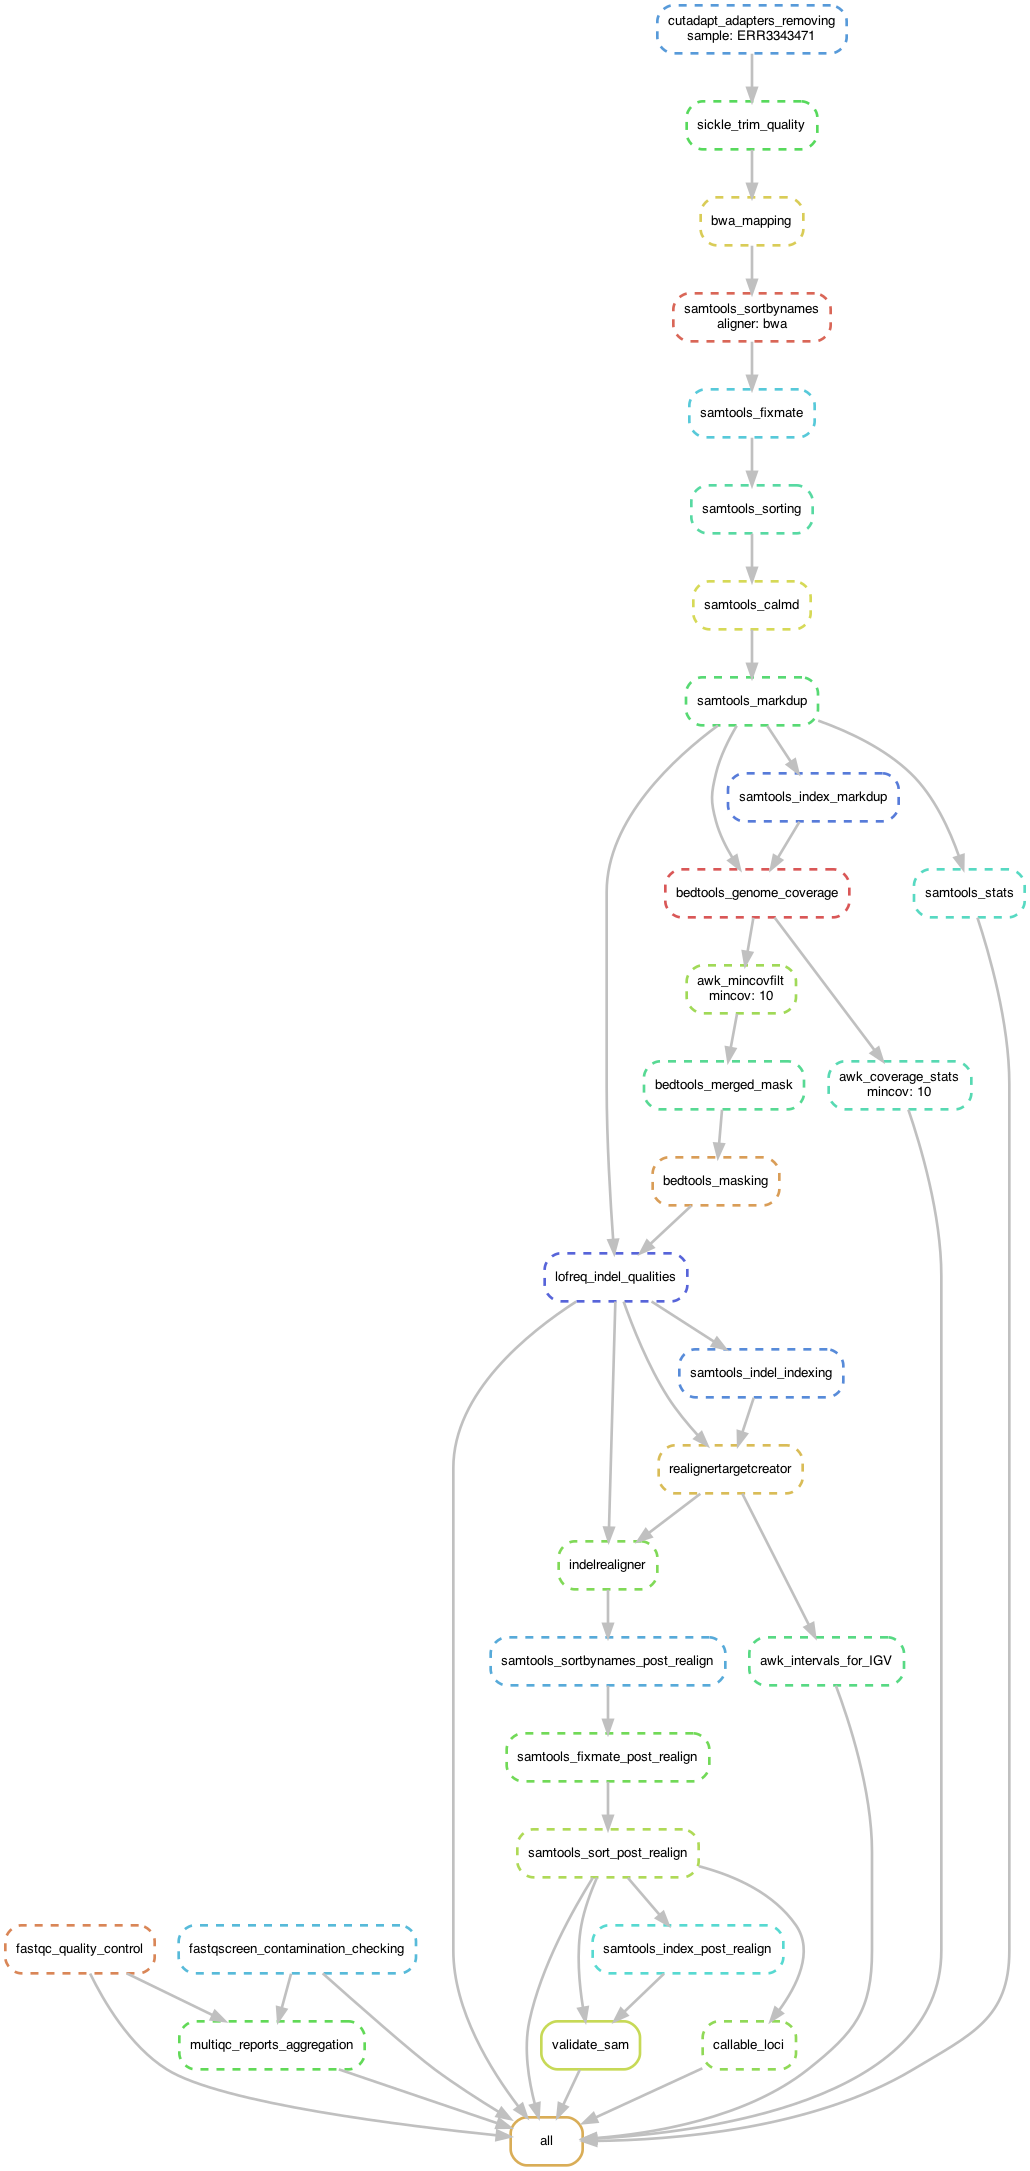
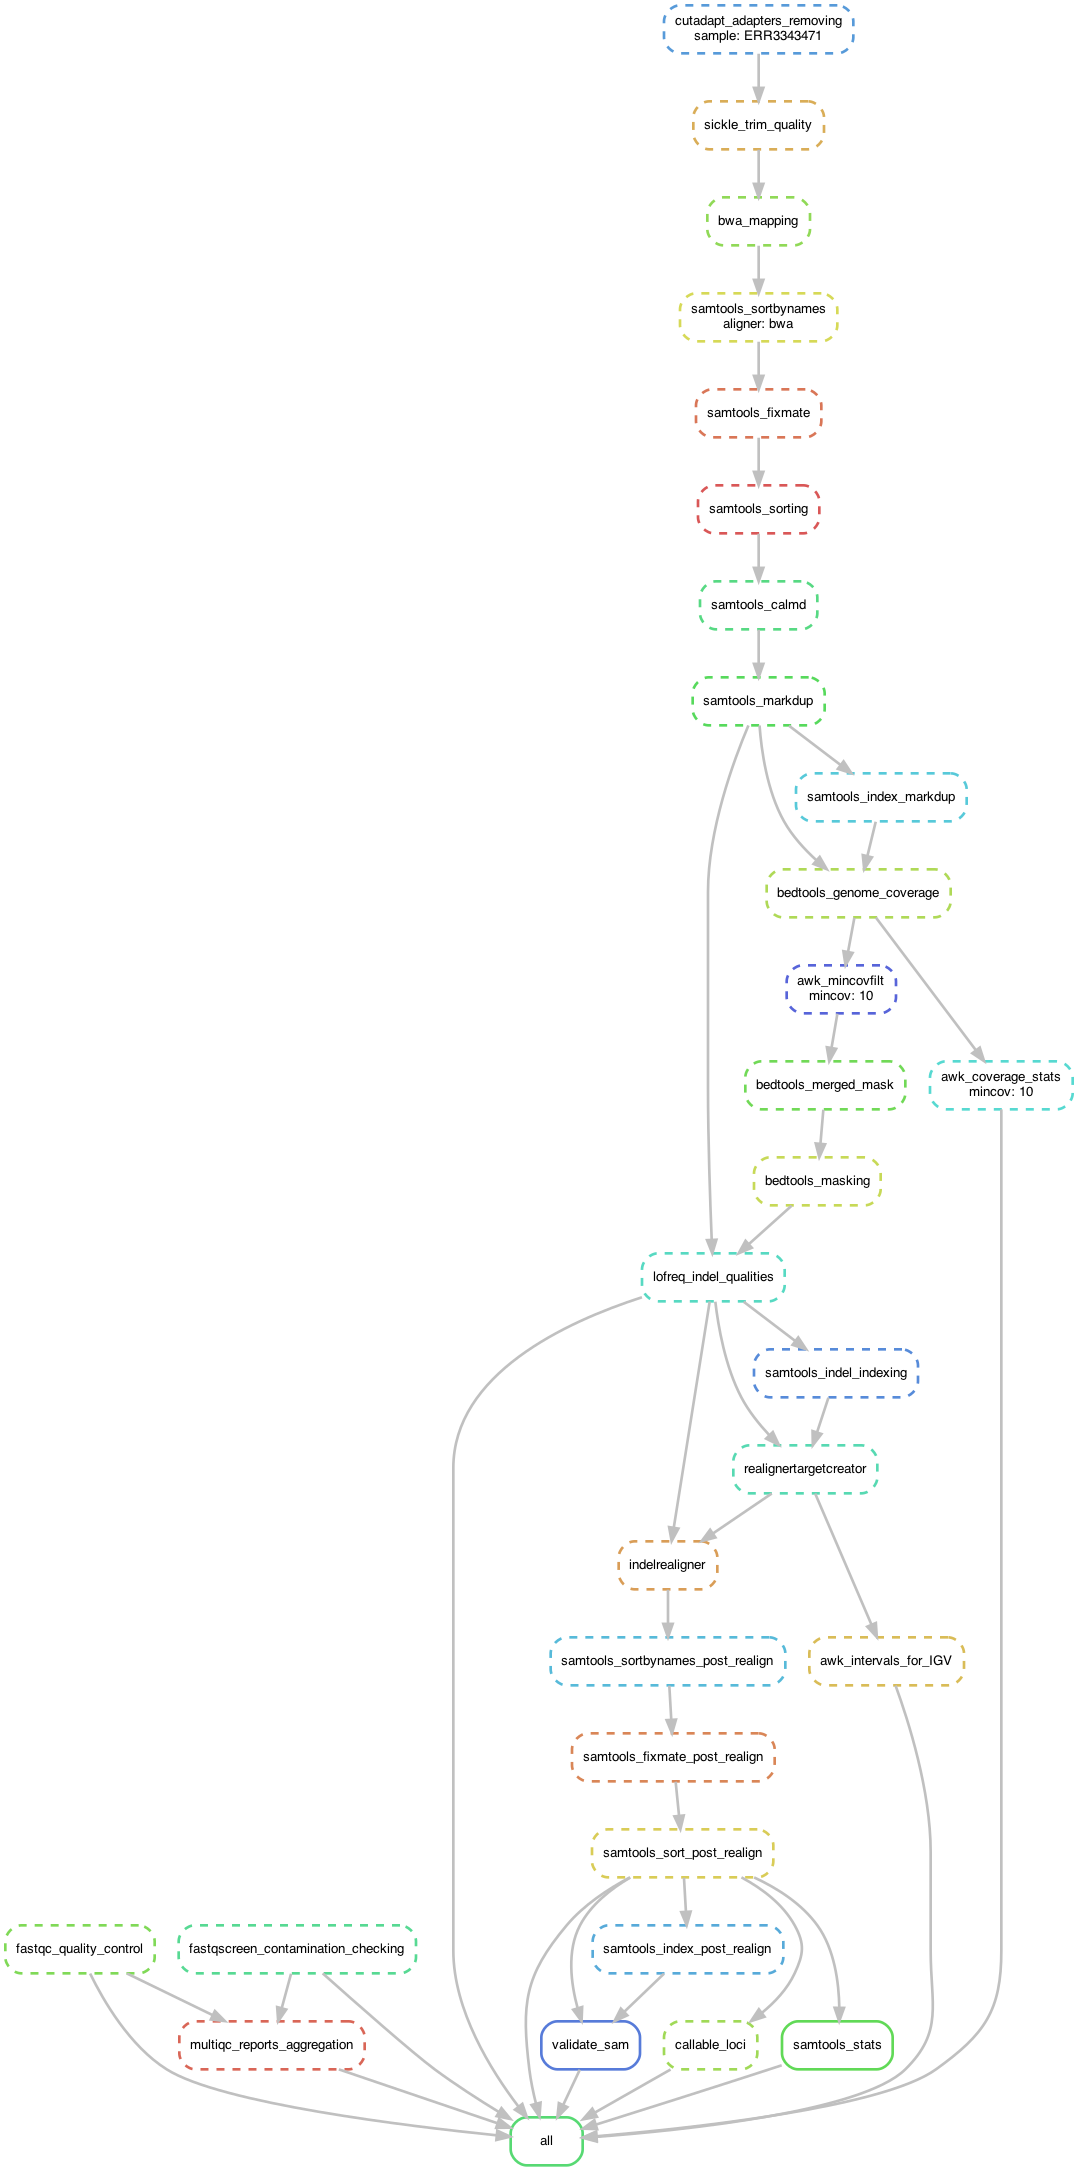
Added samtools stats rule

diff --git a/README.md b/README.md
@@ -64,8 +64,7 @@ Written for **MOVE-ADAPT** project.
 - Variant filtering,
 - VCF compression,
 - Genome coverage statistics,
-- View intervals in IGV,  
-- Consensus sequences (_fasta file_)
+- View intervals in IGV,
 
 ### Version ###
 *V1.2022.10.05*  
@@ -213,7 +212,17 @@ This is the main results :
 
 ### 05_Validation ###
 - **mark-dup.txt**: statistics of all reads, produced by samtools stats, in _txt_ format
-- **realign_fix-mate_sorted.bam**: realigned, fix-mate bam, in _bam_ format
+- **realign_fix-mate_sorted.bam**: realigned, fix-mate sorted bam, in _bam_ format
+- **realign_fix-mate_sorted.bai**: index of realigned, fix-mate sorted bam, in_bam_ format
+
+**callableloci** directory:
+- **realign_fix-mate_sorted_callable_status.bed**: statistics on callable, uncallable, poorly mapped, and other parts of the genome, produced by GATK's CallableLoci, in_bed_ format
+- **summary_table**: summary table produced by GATK's CallableLoci, in _txt_ format
+
+**realigned** directory:
+- **realign.bai**: bam indexes _bai_
+
+ 
 
 ### 10_graphs ###
 - **dag**: directed acyclic graph of jobs, in _pdf_ and _png_ formats
